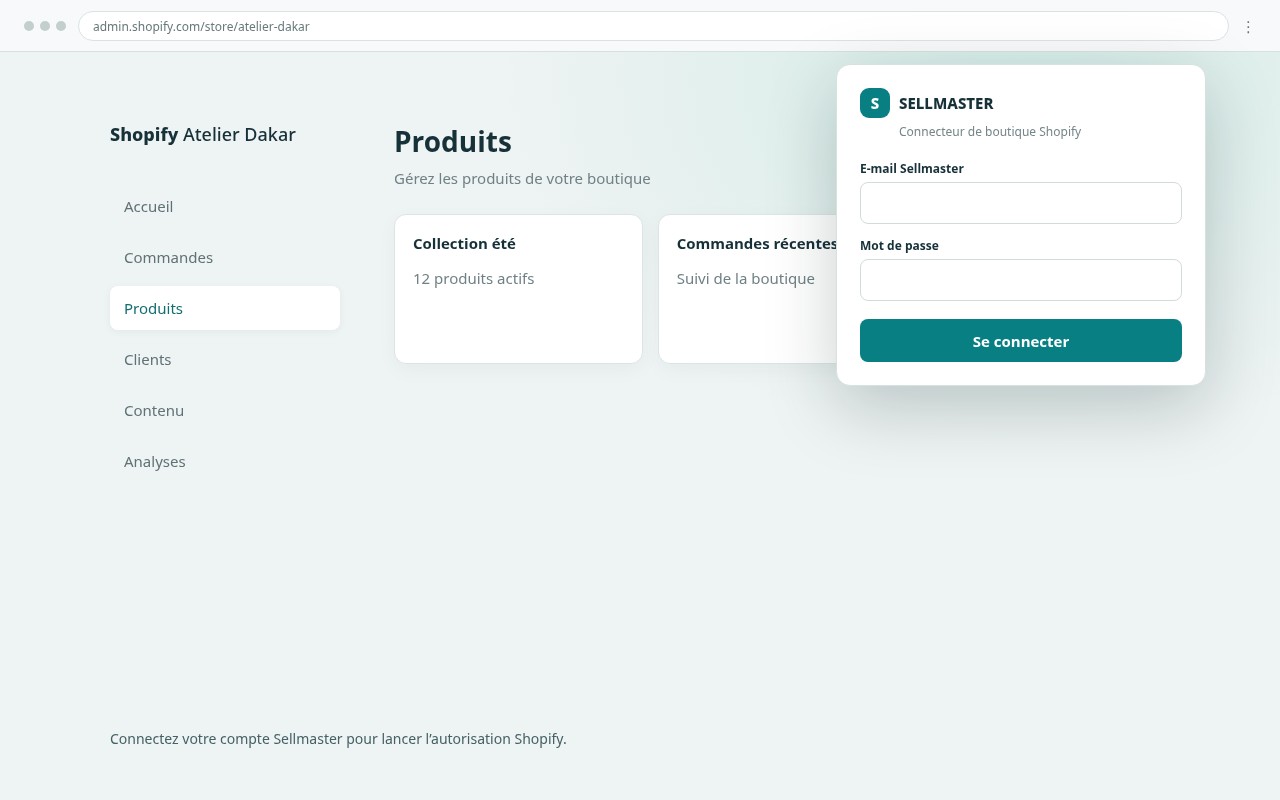
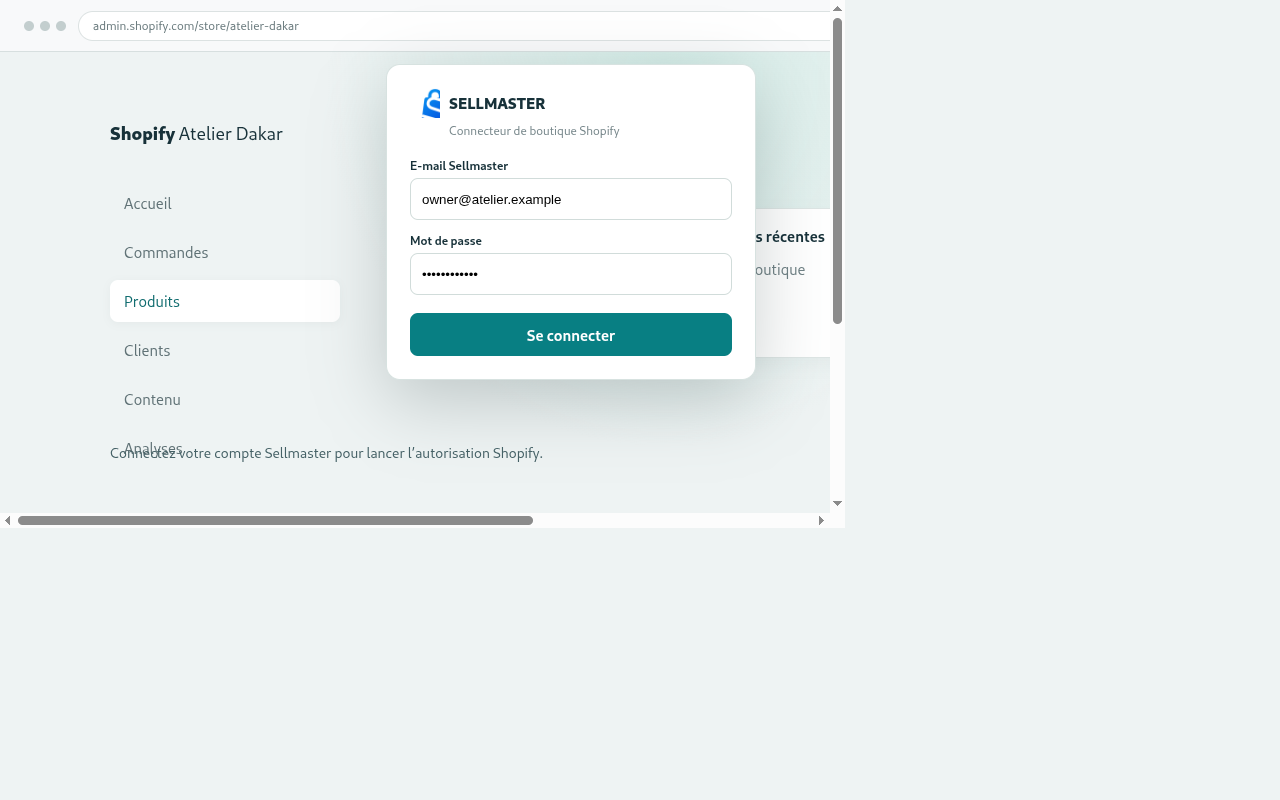
mise à jour

diff --git a/chrome-extension/store-assets/screenshots/popup-preview.html b/chrome-extension/store-assets/screenshots/popup-preview.html
@@ -1,6 +1,17 @@
 <!doctype html>
-<html lang="fr"><meta charset="utf-8"><meta name="viewport" content="width=device-width,initial-scale=1"><title>Sellmaster connector popup preview</title>
-<style>
-*{box-sizing:border-box}body{margin:0;width:1280px;height:800px;background:radial-gradient(ellipse at 80% 10%,#d4ece7 0,transparent 36%),#eef3f3;color:#173139;font:15px system-ui,sans-serif}.browser{height:52px;background:#f8f9fa;border-bottom:1px solid #d7dfdf;display:flex;align-items:center;padding:0 24px;gap:12px;color:#68797c}.dots{display:flex;gap:6px}.dots i{width:10px;height:10px;border-radius:50%;background:#c3cece}.address{height:30px;border:1px solid #dce2e2;border-radius:18px;background:#fff;flex:1;padding:6px 14px;font-size:12px}.store{padding:70px 110px;display:flex;gap:54px}.sidebar{width:230px;color:#607276}.shopmark{font-size:18px;font-weight:800;color:#173139;margin-bottom:38px}.nav{padding:12px 14px;border-radius:8px;margin:7px 0}.nav.on{background:#fff;color:#126d70;box-shadow:0 2px 9px #213b3b0d}.main{flex:1}.main h1{font-size:28px;margin:0 0 8px}.muted{color:#708185}.grid{margin-top:26px;display:grid;grid-template-columns:repeat(3,1fr);gap:15px}.card{height:150px;background:#fff;border:1px solid #dde5e4;border-radius:12px;padding:18px;box-shadow:0 6px 20px #173b3b0a}.popup{position:absolute;right:74px;top:64px;width:370px;padding:23px;background:#fff;border:1px solid #d7e2e0;border-radius:14px;box-shadow:0 22px 70px #071c1c35}.brand{display:flex;align-items:center;gap:9px;font-weight:850}.icon{width:30px;height:30px;border-radius:9px;background:#087f83;color:#fff;display:grid;place-items:center}.sub{margin:5px 0 20px 39px;color:#758589;font-size:12px}label{display:block;font-size:12px;font-weight:750;margin:13px 0 5px}input{width:100%;height:42px;border:1px solid #d1dcda;border-radius:8px;padding:0 11px;background:#fff}.btn{margin-top:18px;width:100%;height:43px;border-radius:8px;background:#087f83;color:#fff;display:grid;place-items:center;font-weight:750}.caption{position:absolute;left:110px;bottom:52px;color:#456166;font-size:14px}
-</style>
-<body><div class="browser"><span class="dots"><i></i><i></i><i></i></span><div class="address">admin.shopify.com/store/atelier-dakar</div><span>⋮</span></div><div class="store"><aside class="sidebar"><div class="shopmark">Shopify <span style="font-weight:500">Atelier Dakar</span></div><div class="nav">Accueil</div><div class="nav">Commandes</div><div class="nav on">Produits</div><div class="nav">Clients</div><div class="nav">Contenu</div><div class="nav">Analyses</div></aside><main class="main"><h1>Produits</h1><div class="muted">Gérez les produits de votre boutique</div><div class="grid"><div class="card"><b>Collection été</b><p class="muted">12 produits actifs</p></div><div class="card"><b>Commandes récentes</b><p class="muted">Suivi de la boutique</p></div><div class="card"><b>Inventaire</b><p class="muted">Stock à jour</p></div></div></main></div><div class="popup"><div class="brand"><span class="icon">S</span>SELLMASTER</div><div class="sub">Connecteur de boutique Shopify</div><label>E-mail Sellmaster</label><input value="owner@atelier.example" readonly><label>Mot de passe</label><input value="••••••••••••" readonly><div class="btn">Se connecter</div></div><div class="caption">Connectez votre compte Sellmaster pour lancer l’autorisation Shopify.</div></body></html>
+<html lang="fr">
+<head>
+  <meta charset="utf-8">
+  <meta name="viewport" content="width=device-width,initial-scale=1">
+  <title>Sellmaster connector popup preview</title>
+  <style>
+    *{box-sizing:border-box}body{margin:0;width:1280px;height:800px;background:radial-gradient(ellipse at 80% 10%,#d4ece7 0,transparent 36%),#eef3f3;color:#173139;font:15px system-ui,sans-serif}.browser{height:52px;background:#f8f9fa;border-bottom:1px solid #d7dfdf;display:flex;align-items:center;padding:0 24px;gap:12px;color:#68797c}.dots{display:flex;gap:6px}.dots i{width:10px;height:10px;border-radius:50%;background:#c3cece}.address{height:30px;border:1px solid #dce2e2;border-radius:18px;background:#fff;flex:1;padding:6px 14px;font-size:12px}.store{padding:70px 110px;display:flex;gap:54px}.sidebar{width:230px;color:#607276}.shopmark{font-size:18px;font-weight:800;color:#173139;margin-bottom:38px}.nav{padding:12px 14px;border-radius:8px;margin:7px 0}.nav.on{background:#fff;color:#126d70;box-shadow:0 2px 9px #213b3b0d}.main{flex:1}.main h1{font-size:28px;margin:0 0 8px}.muted{color:#708185}.grid{margin-top:26px;display:grid;grid-template-columns:repeat(3,1fr);gap:15px}.card{height:150px;background:#fff;border:1px solid #dde5e4;border-radius:12px;padding:18px;box-shadow:0 6px 20px #173b3b0a}.popup{position:absolute;right:74px;top:64px;width:370px;padding:23px;background:#fff;border:1px solid #d7e2e0;border-radius:14px;box-shadow:0 22px 70px #071c1c35}.brand{display:flex;align-items:center;gap:9px;font-weight:850}.brand img{width:30px;height:30px;object-fit:contain}.sub{margin:5px 0 20px 39px;color:#758589;font-size:12px}label{display:block;font-size:12px;font-weight:750;margin:13px 0 5px}input{width:100%;height:42px;border:1px solid #d1dcda;border-radius:8px;padding:0 11px;background:#fff}.btn{margin-top:18px;width:100%;height:43px;border-radius:8px;background:#087f83;color:#fff;display:grid;place-items:center;font-weight:750}.caption{position:absolute;left:110px;bottom:52px;color:#456166;font-size:14px}
+  </style>
+</head>
+<body>
+  <div class="browser"><span class="dots"><i></i><i></i><i></i></span><div class="address">admin.shopify.com/store/atelier-dakar</div><span>⋮</span></div>
+  <div class="store"><aside class="sidebar"><div class="shopmark">Shopify <span style="font-weight:500">Atelier Dakar</span></div><div class="nav">Accueil</div><div class="nav">Commandes</div><div class="nav on">Produits</div><div class="nav">Clients</div><div class="nav">Contenu</div><div class="nav">Analyses</div></aside><main class="main"><h1>Produits</h1><div class="muted">Gérez les produits de votre boutique</div><div class="grid"><div class="card"><b>Collection été</b><p class="muted">12 produits actifs</p></div><div class="card"><b>Commandes récentes</b><p class="muted">Suivi de la boutique</p></div><div class="card"><b>Inventaire</b><p class="muted">Stock à jour</p></div></div></main></div>
+  <div class="popup"><div class="brand"><img src="../../icons/icon128.png" alt=""><span>SELLMASTER</span></div><div class="sub">Connecteur de boutique Shopify</div><label>E-mail Sellmaster</label><input value="owner@atelier.example" readonly><label>Mot de passe</label><input value="••••••••••••" readonly><div class="btn">Se connecter</div></div>
+  <div class="caption">Connectez votre compte Sellmaster pour lancer l’autorisation Shopify.</div>
+</body>
+</html>

diff --git a/sellmaster-web/src/LandingPage.jsx b/sellmaster-web/src/LandingPage.jsx
@@ -49,7 +49,7 @@ function DashboardPreview() {
     <div className="landing-preview" aria-label="Aperçu du tableau de bord Sellmaster">
       <div className="preview-window-bar"><span /><span /><span /><small>sellmaster.site / overview</small><i><ArrowUpRight size={13} /></i></div>
       <div className="preview-layout">
-        <aside className="preview-sidebar"><div className="preview-logo"><span>S</span><b>SELLMASTER</b></div><div className="preview-nav active"><BarChart3 size={14} />Vue d’ensemble</div><div className="preview-nav"><ClipboardCheck size={14} />Commandes</div><div className="preview-nav"><PackageCheck size={14} />Produits</div><div className="preview-nav"><ShoppingBag size={14} />Boutiques</div><div className="preview-user"><span>AM</span><small>Alex Morgan<br /><em>Propriétaire</em></small></div></aside>
+        <aside className="preview-sidebar"><div className="preview-logo"><img src="/sellmaster-mark.svg" alt="" /><b>SELLMASTER</b></div><div className="preview-nav active"><BarChart3 size={14} />Vue d’ensemble</div><div className="preview-nav"><ClipboardCheck size={14} />Commandes</div><div className="preview-nav"><PackageCheck size={14} />Produits</div><div className="preview-nav"><ShoppingBag size={14} />Boutiques</div><div className="preview-user"><span>AM</span><small>Alex Morgan<br /><em>Propriétaire</em></small></div></aside>
         <div className="preview-main"><div className="preview-title"><div><small>VOTRE ACTIVITÉ · AUJOURD’HUI</small><strong>Un bonjour, Alex.</strong></div><span>Mis à jour à l’instant <i /></span></div>
           <div className="preview-metrics"><div><small>Commandes</small><strong>128</strong><em><ArrowUpRight size={12} /> 12,8%</em></div><div><small>Livrées</small><strong>94</strong><em><Check size={12} /> 73,4%</em></div><div><small>Chiffre livré</small><strong>4 820 €</strong><em className="metric-neutral">Cette semaine</em></div></div>
           <div className="preview-lower"><div className="preview-chart"><div className="preview-chart-head"><span>Rythme des commandes</span><small>7 derniers jours⌄</small></div><div className="chart-bars" aria-hidden="true">{[36, 54, 42, 69, 49, 82, 63, 95, 74, 58, 87, 68, 100, 78, 91, 61, 83, 70, 97, 76].map((height, index) => <i key={index} style={{ '--bar-height': `${height}%` }} />)}</div><div className="chart-labels"><span>Lun</span><span>Mer</span><span>Ven</span><span>Dim</span></div></div><div className="preview-recent"><span>À traiter</span><b><i className="status-dot amber" />#SM-2048 <small>En cours</small></b><b><i className="status-dot blue" />#SM-2047 <small>Assignée</small></b><b><i className="status-dot green" />#SM-2046 <small>Livrée</small></b></div></div>
@@ -68,7 +68,7 @@ export default function LandingPage({ onLogin }) {
     <main className="landing-page">
       <section className="landing-hero" id="top">
         <header className="landing-header">
-          <a className="landing-brand" href="#top" onClick={closeMenu}><span className="landing-brand-mark">S</span><span>SELLMASTER</span></a>
+          <a className="landing-brand" href="#top" onClick={closeMenu}><img className="landing-brand-mark" src="/sellmaster-mark.svg" alt="" /><span>SELLMASTER</span></a>
           <button className="landing-menu-toggle" onClick={() => setMenuOpen(!menuOpen)} aria-label={menuOpen ? 'Fermer le menu' : 'Ouvrir le menu'} aria-expanded={menuOpen}>{menuOpen ? <X /> : <Menu />}</button>
           <nav className={menuOpen ? 'landing-nav is-open' : 'landing-nav'} aria-label="Navigation principale"><a href="#plateforme" onClick={closeMenu}>La plateforme</a><a href="#comment-ca-marche" onClick={closeMenu}>Comment ça marche</a><a href="#shopify" onClick={closeMenu}>Shopify</a><a href="#questions" onClick={closeMenu}>Questions</a><button className="landing-login-link" onClick={() => { closeMenu(); onLogin() }}>Se connecter</button><button className="landing-header-cta" onClick={() => { closeMenu(); onLogin() }}>Accéder à mon espace <ArrowRight size={15} /></button></nav>
         </header>
@@ -91,7 +91,7 @@ export default function LandingPage({ onLogin }) {
 
       <section className="landing-final-cta"><div className="final-cta-orbit" /><div className="landing-section-label"><span>VOTRE ACTIVITÉ, ENFIN AU MÊME ENDROIT</span><i /></div><h2>Prêt à reprendre<br />le fil des opérations ?</h2><p>Connectez-vous et retrouvez votre espace de travail Sellmaster.</p><button className="landing-final-button" onClick={onLogin}>Accéder à Sellmaster <ArrowRight size={17} /></button></section>
 
-      <footer className="landing-footer"><a className="landing-brand" href="#top"><span className="landing-brand-mark">S</span><span>SELLMASTER</span></a><p>Un espace clair pour faire avancer votre e-commerce.</p><div><a href="#plateforme">La plateforme</a><a href="#shopify">Shopify</a><a href="mailto:support@sellmaster.app">Support</a><span>© 2026 Sellmaster</span></div></footer>
+      <footer className="landing-footer"><a className="landing-brand" href="#top"><img className="landing-brand-mark" src="/sellmaster-mark.svg" alt="" /><span>SELLMASTER</span></a><p>Un espace clair pour faire avancer votre e-commerce.</p><div><a href="#plateforme">La plateforme</a><a href="#shopify">Shopify</a><a href="mailto:support@sellmaster.app">Support</a><span>© 2026 Sellmaster</span></div></footer>
     </main>
   )
 }

diff --git a/chrome-extension/panel.js b/chrome-extension/panel.js
@@ -13,7 +13,7 @@
     *{box-sizing:border-box}
     .launcher{position:fixed;z-index:2147483000;right:20px;bottom:20px;border:0;border-radius:999px;background:#087f83;color:#fff;padding:13px 18px;font:700 14px system-ui,sans-serif;box-shadow:0 8px 28px #0003;cursor:pointer}
     .panel{position:fixed;z-index:2147483001;right:20px;bottom:78px;width:min(370px,calc(100vw - 28px));background:#fff;border:1px solid #d8e4e2;border-radius:14px;box-shadow:0 18px 55px #092b2b30;overflow:hidden;color:#183139}
-    .hidden{display:none!important}.head{display:flex;justify-content:space-between;align-items:center;padding:15px 17px;background:#f3f8f7;border-bottom:1px solid #e0e9e8}.brand{font-size:14px;font-weight:800}.close{border:0;background:transparent;color:#52686c;font-size:23px;line-height:1;cursor:pointer}.body{padding:16px}.intro{margin:0 0 12px;color:#63777b;font-size:12px;line-height:1.45}
+    .hidden{display:none!important}.head{display:flex;justify-content:space-between;align-items:center;padding:15px 17px;background:#f3f8f7;border-bottom:1px solid #e0e9e8}.brand{display:flex;align-items:center;gap:8px;font-size:14px;font-weight:800}.brand-mark{width:25px;height:25px;object-fit:contain}.close{border:0;background:transparent;color:#52686c;font-size:23px;line-height:1;cursor:pointer}.body{padding:16px}.intro{margin:0 0 12px;color:#63777b;font-size:12px;line-height:1.45}
     .switch{display:grid;grid-template-columns:1fr 1fr;padding:3px;background:#edf3f2;border-radius:9px;margin:0 0 14px}.switch button{border:0;border-radius:7px;padding:8px;background:transparent;color:#596e72;font:700 12px system-ui,sans-serif;cursor:pointer}.switch button.active{background:#fff;color:#075e64;box-shadow:0 1px 4px #153c3b1a}
     label{display:block;margin:11px 0 5px;font:700 12px system-ui,sans-serif;color:#34494d}.fieldrow{display:flex;gap:6px}input{width:100%;height:39px;min-width:0;border:1px solid #cbd9d7;border-radius:8px;padding:0 10px;background:#fff;color:#193337;font:13px system-ui,sans-serif;outline:none}input:focus{border-color:#087f83;box-shadow:0 0 0 3px #087f8318}.paste{width:39px;flex:none;border:1px solid #d3e0de;border-radius:8px;background:#f5f8f8;color:#31595a;font-size:16px;cursor:pointer}.connect{width:100%;height:42px;margin-top:15px;border:0;border-radius:8px;background:#087f83;color:#fff;font:750 13px system-ui,sans-serif;cursor:pointer}.connect:disabled{opacity:.6;cursor:wait}.message{min-height:18px;margin:11px 0 0;color:#5e7376;font:12px/1.45 system-ui,sans-serif}.message.error{color:#b42318}.message.success{color:#11724b}.needs-login{padding:12px;border-radius:8px;background:#fff7e6;color:#73510b;font-size:12px;line-height:1.45}.hint{margin:10px 0 0;color:#75878a;font-size:11px;line-height:1.4}
     @media(max-width:480px){.panel{right:12px;bottom:68px}.launcher{right:12px;bottom:12px}}
@@ -24,7 +24,7 @@
   const panel = document.createElement('section');
   panel.className = 'panel hidden';
   panel.innerHTML = `
-    <div class="head"><span class="brand">Connecteur Sellmaster</span><button class="close" type="button" aria-label="Fermer">×</button></div>
+    <div class="head"><span class="brand"><img class="brand-mark" src="${chrome.runtime.getURL('icons/icon48.png')}" alt="">Connecteur Sellmaster</span><button class="close" type="button" aria-label="Fermer">×</button></div>
     <div class="body">
       <p class="intro">Associez cette boutique Shopify à votre espace Sellmaster.</p>
       <div class="needs-login hidden">Connectez-vous à votre compte owner Sellmaster depuis le popup de l’extension, puis rouvrez ce panneau.</div>

diff --git a/Backend/form-builder/index.html b/Backend/form-builder/index.html
@@ -9,7 +9,7 @@
     :root{color-scheme:light;--ink:#172b32;--muted:#64777c;--line:#dce6e5;--paper:#fff;--ground:#f3f7f7;--teal:#087f83;--teal-dark:#075e64;--mint:#e5f5f1;--red:#a93434;--shadow:0 20px 55px #163a3d12}
     *{box-sizing:border-box}body{margin:0;background:radial-gradient(ellipse at 88% 0,#d8efea 0,transparent 34%),var(--ground);color:var(--ink);font:15px/1.5 system-ui,-apple-system,"Segoe UI",sans-serif;min-height:100vh}
     button,input{font:inherit}button{cursor:pointer}.topbar{height:64px;border-bottom:1px solid #dce6e5;background:#ffffffd9;display:flex;align-items:center;justify-content:space-between;padding:0 max(22px,calc((100vw - 1100px)/2));backdrop-filter:blur(10px)}
-    .brand{display:flex;align-items:center;gap:10px;font-weight:800;letter-spacing:.01em}.mark{display:grid;place-items:center;width:30px;height:30px;border-radius:9px;background:var(--teal);color:white;font-weight:900}.brand span:last-child{color:var(--muted);font-weight:550}
+    .brand{display:flex;align-items:center;gap:10px;font-weight:800;letter-spacing:.01em}.mark{display:block;width:30px;height:30px;object-fit:contain}.brand span:last-child{color:var(--muted);font-weight:550}
     .shell{width:min(100% - 32px,1000px);margin:54px auto 80px}.eyebrow{color:var(--teal);font-size:12px;font-weight:800;text-transform:uppercase}.title{margin:7px 0 8px;font-size:clamp(27px,4vw,38px);line-height:1.15;letter-spacing:-.025em}.lead{max-width:650px;color:var(--muted);margin:0 0 28px}
     .login{max-width:440px;margin:70px auto;background:var(--paper);border:1px solid var(--line);border-radius:16px;box-shadow:var(--shadow);padding:30px}.login h1{font-size:24px;margin:0 0 6px}.login p{color:var(--muted);margin:0 0 24px}
     label.field-label{display:block;font-size:13px;font-weight:700;margin:14px 0 6px}.text-input{width:100%;height:46px;border:1px solid #cbd8d7;border-radius:9px;padding:0 12px;background:#fff;color:var(--ink);outline:none}.text-input:focus{border-color:var(--teal);box-shadow:0 0 0 3px #087f831a}.text-input.textarea{height:auto;min-height:86px;padding:10px 12px;resize:vertical}
@@ -65,13 +65,7 @@
     .brand-mark {
       width: 32px;
       height: 32px;
-      border-radius: 10px;
-      display: grid;
-      place-items: center;
-      background: linear-gradient(135deg,#0f8a8d,#0d5d62);
-      color: #fff;
-      font-size: 15px;
-      box-shadow: 0 12px 28px rgba(15,138,141,0.28);
+      object-fit: contain;
     }
 
     .brand-sub {
@@ -632,7 +626,7 @@
   <main class="landing-shell">
     <header class="landing-topbar">
       <div class="brand-wrap">
-        <span class="brand-mark">S</span>
+        <img class="brand-mark" src="./sellmaster-mark.svg" alt="">
         <span>Sellmaster</span>
         <span class="brand-sub">Form builder</span>
       </div>
@@ -883,7 +877,7 @@
   </main>
 
   <main class="shell">
-    <header class="topbar"><div class="brand"><span class="mark">S</span><span>SELLMASTER</span><span>/ Form Builder</span></div><button id="logout" class="logout hidden" type="button">Se déconnecter</button></header>
+    <header class="topbar"><div class="brand"><img class="mark" src="./sellmaster-mark.svg" alt=""><span>SELLMASTER</span><span>/ Form Builder</span></div><button id="logout" class="logout hidden" type="button">Se déconnecter</button></header>
     <section id="login" class="login">
       <div class="eyebrow">Espace propriétaire</div>
       <h1>Connectez votre compte</h1>

diff --git a/sellmaster-web/src/App.jsx b/sellmaster-web/src/App.jsx
@@ -51,13 +51,13 @@ function LoginScreen({ onLogin }) {
   return (
     <main className="auth-layout">
       <section className="auth-brand-panel">
-        <a className="brand" href="#app"><span className="brand-symbol">S</span><span>SELLMASTER</span></a>
+        <a className="brand" href="#app"><img className="brand-symbol" src="/sellmaster-mark.svg" alt="" /><span>SELLMASTER</span></a>
         <div className="auth-story"><span className="overline">VOTRE COMMERCE, EN MOUVEMENT</span><h1>Chaque commande mérite un meilleur suivi.</h1><p>Retrouvez vos ventes, produits et opérations dans un espace de travail pensé pour les e-commerçants.</p><div className="story-rule"><span /><span /><span /><span /><span /><span /><span /><span /><span /><span /></div><div className="story-caption"><Activity size={17} /> Votre activité, réunie au même endroit</div></div>
         <div className="auth-panel-foot"><ShieldCheck size={15} /> Connexion sécurisée à votre espace Sellmaster</div>
       </section>
       <section className="auth-form-panel">
         <form className="login-form" onSubmit={submit}>
-          <div className="mobile-brand brand"><span className="brand-symbol">S</span><span>SELLMASTER</span></div><span className="overline">ESPACE E-COMMERÇANT</span><h2>Content de vous revoir.</h2><p>Connectez-vous pour accéder à votre activité.</p>
+          <div className="mobile-brand brand"><img className="brand-symbol" src="/sellmaster-mark.svg" alt="" /><span>SELLMASTER</span></div><span className="overline">ESPACE E-COMMERÇANT</span><h2>Content de vous revoir.</h2><p>Connectez-vous pour accéder à votre activité.</p>
           <label htmlFor="email">Adresse e-mail</label><input id="email" type="email" autoComplete="username" required value={email} onChange={(event) => setEmail(event.target.value)} placeholder="vous@entreprise.com" />
           <div className="password-label"><label htmlFor="password">Mot de passe</label><a href="mailto:support@sellmaster.app">Besoin d’aide ?</a></div><input id="password" type="password" autoComplete="current-password" required value={password} onChange={(event) => setPassword(event.target.value)} placeholder="Votre mot de passe" />
           {error && <div className="form-error" role="alert">{error}</div>}
@@ -71,7 +71,7 @@ function LoginScreen({ onLogin }) {
 function Sidebar({ active, onNavigate, user, onLogout }) {
   return (
     <aside className="sidebar">
-      <a className="brand sidebar-brand" href="#app"><span className="brand-symbol">S</span><span>SELLMASTER</span></a>
+      <a className="brand sidebar-brand" href="#app"><img className="brand-symbol" src="/sellmaster-mark.svg" alt="" /><span>SELLMASTER</span></a>
       <div className="workspace-select"><span className="store-icon"><Store size={17} /></span><span className="workspace-text"><strong>Ma boutique</strong><small>Espace principal</small></span><ChevronDown size={15} /></div>
       <span className="nav-caption">ESPACE DE TRAVAIL</span>
       <nav className="side-nav" aria-label="Navigation principale">{navItems.map(({ id, label, icon: Icon }) => <button className={`nav-link ${active === id ? 'selected' : ''}`} key={id} onClick={() => onNavigate(id)}><Icon size={18} strokeWidth={1.8} /><span>{label}</span>{id === 'orders' && <span className="nav-count">•</span>}</button>)}</nav>

diff --git a/sellmaster-web/src/landing.css b/sellmaster-web/src/landing.css
@@ -69,16 +69,10 @@
 }
 
 .landing-brand-mark {
-  display: grid;
+  display: block;
   width: 36px;
-  aspect-ratio: 1;
-  place-items: center;
-  border-radius: 11px;
-  background: #4869f2;
-  color: white;
-  font-size: 19px;
-  font-weight: 700;
-  box-shadow: 0 5px 20px rgba(62, 97, 238, .36);
+  height: 36px;
+  object-fit: contain;
 }
 
 .landing-nav {
@@ -327,7 +321,7 @@
 }
 
 .preview-logo { display: flex; align-items: center; gap: 7px; margin: 0 0 14px 5px; color: #2b3343; font-size: 9px; letter-spacing: .4px; }
-.preview-logo span { display: grid; width: 22px; height: 22px; place-items: center; border-radius: 6px; color: white; background: #4968ec; font-size: 12px; font-weight: 700; }
+.preview-logo img { display: block; width: 22px; height: 22px; object-fit: contain; }
 .preview-nav { display: flex; align-items: center; gap: 8px; min-height: 31px; padding: 0 8px; border-radius: 4px; color: #798293; font-size: 9px; }
 .preview-nav.active { color: #445fe1; background: #f0f3ff; font-weight: 700; }
 .preview-user { display: flex; align-items: center; gap: 8px; margin-top: auto; padding: 10px 3px 0; border-top: 1px solid #edf0f4; }
@@ -487,7 +481,7 @@
 
 .landing-footer { display: grid; grid-template-columns: auto 1fr auto; align-items: center; gap: 24px; padding: 26px 0; }
 .landing-footer .landing-brand { color: #282e3c; font-size: 12px; }
-.landing-footer .landing-brand-mark { width: 29px; border-radius: 8px; font-size: 15px; }
+.landing-footer .landing-brand-mark { width: 29px; height: 29px; }
 .landing-footer > p { margin: 0; color: #7c8491; font-size: 10px; }
 .landing-footer > div { display: flex; align-items: center; gap: 18px; }
 .landing-footer > div a,.landing-footer > div span { color: #737c89; text-decoration: none; font-size: 9px; }
@@ -522,7 +516,7 @@
   .landing-hero { min-height: 750px; padding: 0 18px; }
   .landing-header { min-height: 69px; }
   .landing-brand { gap: 8px; font-size: 13px; }
-  .landing-brand-mark { width: 32px; border-radius: 9px; }
+  .landing-brand-mark { width: 32px; height: 32px; }
   .landing-menu-toggle { display: grid; }
   .landing-nav { position: absolute; top: 61px; right: 0; left: 0; display: none; align-items: stretch; flex-direction: column; gap: 4px; padding: 13px; border: 1px solid rgba(255,255,255,.12); border-radius: 6px; background: #202337; box-shadow: 0 16px 35px rgba(0,0,0,.25); }
   .landing-nav.is-open { display: flex; }
@@ -541,7 +535,7 @@
   .preview-layout { min-height: 235px; grid-template-columns: 83px minmax(0, 1fr); }
   .preview-sidebar { gap: 5px; padding: 10px 5px; }
   .preview-logo { gap: 4px; margin: 0 0 8px 1px; font-size: 6px; }
-  .preview-logo span { width: 17px; height: 17px; font-size: 9px; }
+  .preview-logo img { width: 17px; height: 17px; }
   .preview-nav { min-height: 26px; gap: 4px; padding: 0 3px; font-size: 6px; }
   .preview-nav svg { width: 11px; height: 11px; }
   .preview-user { gap: 4px; padding-top: 6px; }

diff --git a/chrome-extension/popup.html b/chrome-extension/popup.html
@@ -5,11 +5,11 @@
   <meta name="viewport" content="width=device-width,initial-scale=1">
   <title>Sellmaster</title>
   <style>
-    :root{font-family:system-ui,-apple-system,"Segoe UI",sans-serif;color:#183139;background:#f3f7f7}*{box-sizing:border-box}body{width:330px;margin:0;padding:20px}.brand{display:flex;align-items:center;gap:9px;font-size:15px;font-weight:800}.mark{display:grid;place-items:center;width:29px;height:29px;border-radius:9px;background:#087f83;color:#fff}.sub{color:#66797d;font-size:12px;margin:3px 0 18px 38px}label{display:block;font-size:12px;font-weight:700;margin:12px 0 5px}input{width:100%;height:41px;border:1px solid #cedbd9;border-radius:8px;padding:0 10px;font:14px system-ui;background:#fff}button{width:100%;height:41px;border:0;border-radius:8px;background:#087f83;color:white;font-weight:750;margin-top:15px;cursor:pointer}button:disabled{opacity:.6;cursor:wait}.secondary{background:#e7f0ef;color:#175b5d}.message{min-height:18px;margin:10px 0 0;font-size:12px;color:#5c6f73}.error{color:#b42318}.success{color:#157347}.account{padding:11px;border:1px solid #dce6e5;border-radius:8px;background:white;font-size:13px}.small{margin-top:8px;color:#687b80;font-size:11px}
+    :root{font-family:system-ui,-apple-system,"Segoe UI",sans-serif;color:#183139;background:#f3f7f7}*{box-sizing:border-box}body{width:330px;margin:0;padding:20px}.brand{display:flex;align-items:center;gap:9px;font-size:15px;font-weight:800}.mark{width:29px;height:29px;object-fit:contain}.sub{color:#66797d;font-size:12px;margin:3px 0 18px 38px}label{display:block;font-size:12px;font-weight:700;margin:12px 0 5px}input{width:100%;height:41px;border:1px solid #cedbd9;border-radius:8px;padding:0 10px;font:14px system-ui;background:#fff}button{width:100%;height:41px;border:0;border-radius:8px;background:#087f83;color:white;font-weight:750;margin-top:15px;cursor:pointer}button:disabled{opacity:.6;cursor:wait}.secondary{background:#e7f0ef;color:#175b5d}.message{min-height:18px;margin:10px 0 0;font-size:12px;color:#5c6f73}.error{color:#b42318}.success{color:#157347}.account{padding:11px;border:1px solid #dce6e5;border-radius:8px;background:white;font-size:13px}.small{margin-top:8px;color:#687b80;font-size:11px}
   </style>
 </head>
 <body>
-  <div class="brand"><span class="mark">S</span><span>SELLMASTER</span></div>
+  <div class="brand"><img class="mark" src="icons/icon48.png" alt=""><span>SELLMASTER</span></div>
   <div class="sub">Connecteur de boutique Shopify</div>
   <section id="login-view">
     <form id="login-form">

diff --git a/frontend/web/index.html b/frontend/web/index.html
@@ -19,7 +19,8 @@
   <meta charset="UTF-8">
   <meta content="IE=Edge" http-equiv="X-UA-Compatible">
   <meta http-equiv="Cross-Origin-Opener-Policy" content="same-origin-allow-popups">
-  <meta name="description" content="A new Flutter project.">
+  <meta name="description" content="Sellmaster centralise vos commandes, produits et opérations e-commerce.">
+  <meta name="theme-color" content="#0751df">
   <meta name="google-signin-client_id" content="679713157139-e8r3ahd7milpcuvng9vfiruiijcghm12.apps.googleusercontent.com">
   <script src="https://accounts.google.com/gsi/client" async defer></script>
   <script>
@@ -53,13 +54,13 @@
   <!-- iOS meta tags & icons -->
   <meta name="mobile-web-app-capable" content="yes">
   <meta name="apple-mobile-web-app-status-bar-style" content="black">
-  <meta name="apple-mobile-web-app-title" content="gestion_commandes_app">
+  <meta name="apple-mobile-web-app-title" content="Sellmaster">
   <link rel="apple-touch-icon" href="icons/Icon-192.png">
 
   <!-- Favicon -->
   <link rel="icon" type="image/png" href="favicon.png"/>
 
-  <title>gestion_commandes_app</title>
+  <title>Sellmaster</title>
   <link rel="manifest" href="manifest.json">
 </head>
 <body>

diff --git a/frontend/lib/auth/login_page.dart b/frontend/lib/auth/login_page.dart
@@ -99,22 +99,11 @@ class _LoginPageState extends State<LoginPage> {
                     children: [
                       Row(
                         children: [
-                          Container(
+                          Image.asset(
+                            'assets/sellmaster-mark.png',
                             width: 44,
                             height: 44,
-                            decoration: BoxDecoration(
-                              color: primary,
-                              borderRadius: BorderRadius.circular(14),
-                            ),
-                            alignment: Alignment.center,
-                            child: const Text(
-                              'S',
-                              style: TextStyle(
-                                color: Colors.white,
-                                fontSize: 22,
-                                fontWeight: FontWeight.w900,
-                              ),
-                            ),
+                            fit: BoxFit.contain,
                           ),
                           const SizedBox(width: 12),
                           const Expanded(

diff --git a/sellmaster-web/index.html b/sellmaster-web/index.html
@@ -5,6 +5,8 @@
     <meta name="viewport" content="width=device-width, initial-scale=1.0" />
     <meta name="theme-color" content="#11131f" />
     <meta name="description" content="Sellmaster centralise commandes, produits, boutiques Shopify et équipe dans un seul espace de travail." />
+    <link rel="icon" type="image/svg+xml" href="/sellmaster-mark.svg" />
+    <link rel="apple-touch-icon" href="/sellmaster-icon-192.png" />
     <link rel="preconnect" href="https://fonts.googleapis.com" />
     <link rel="preconnect" href="https://fonts.gstatic.com" crossorigin />
     <title>Sellmaster | Vos opérations e-commerce, au même endroit</title>

diff --git a/sellmaster-web/src/App.css b/sellmaster-web/src/App.css
@@ -574,12 +574,8 @@
 .brand-symbol {
   width: 34px;
   height: 34px;
-  display: grid;
-  place-items: center;
-  border-radius: 10px;
-  background: #a5e6cd;
-  color: #12342d;
-  font-size: 1rem;
+  display: block;
+  object-fit: contain;
   letter-spacing: 0;
 }
 
@@ -853,7 +849,7 @@
 }
 
 .sidebar-brand .brand-symbol {
-  background: #9edfc4;
+  background: transparent;
 }
 
 .workspace-select {
